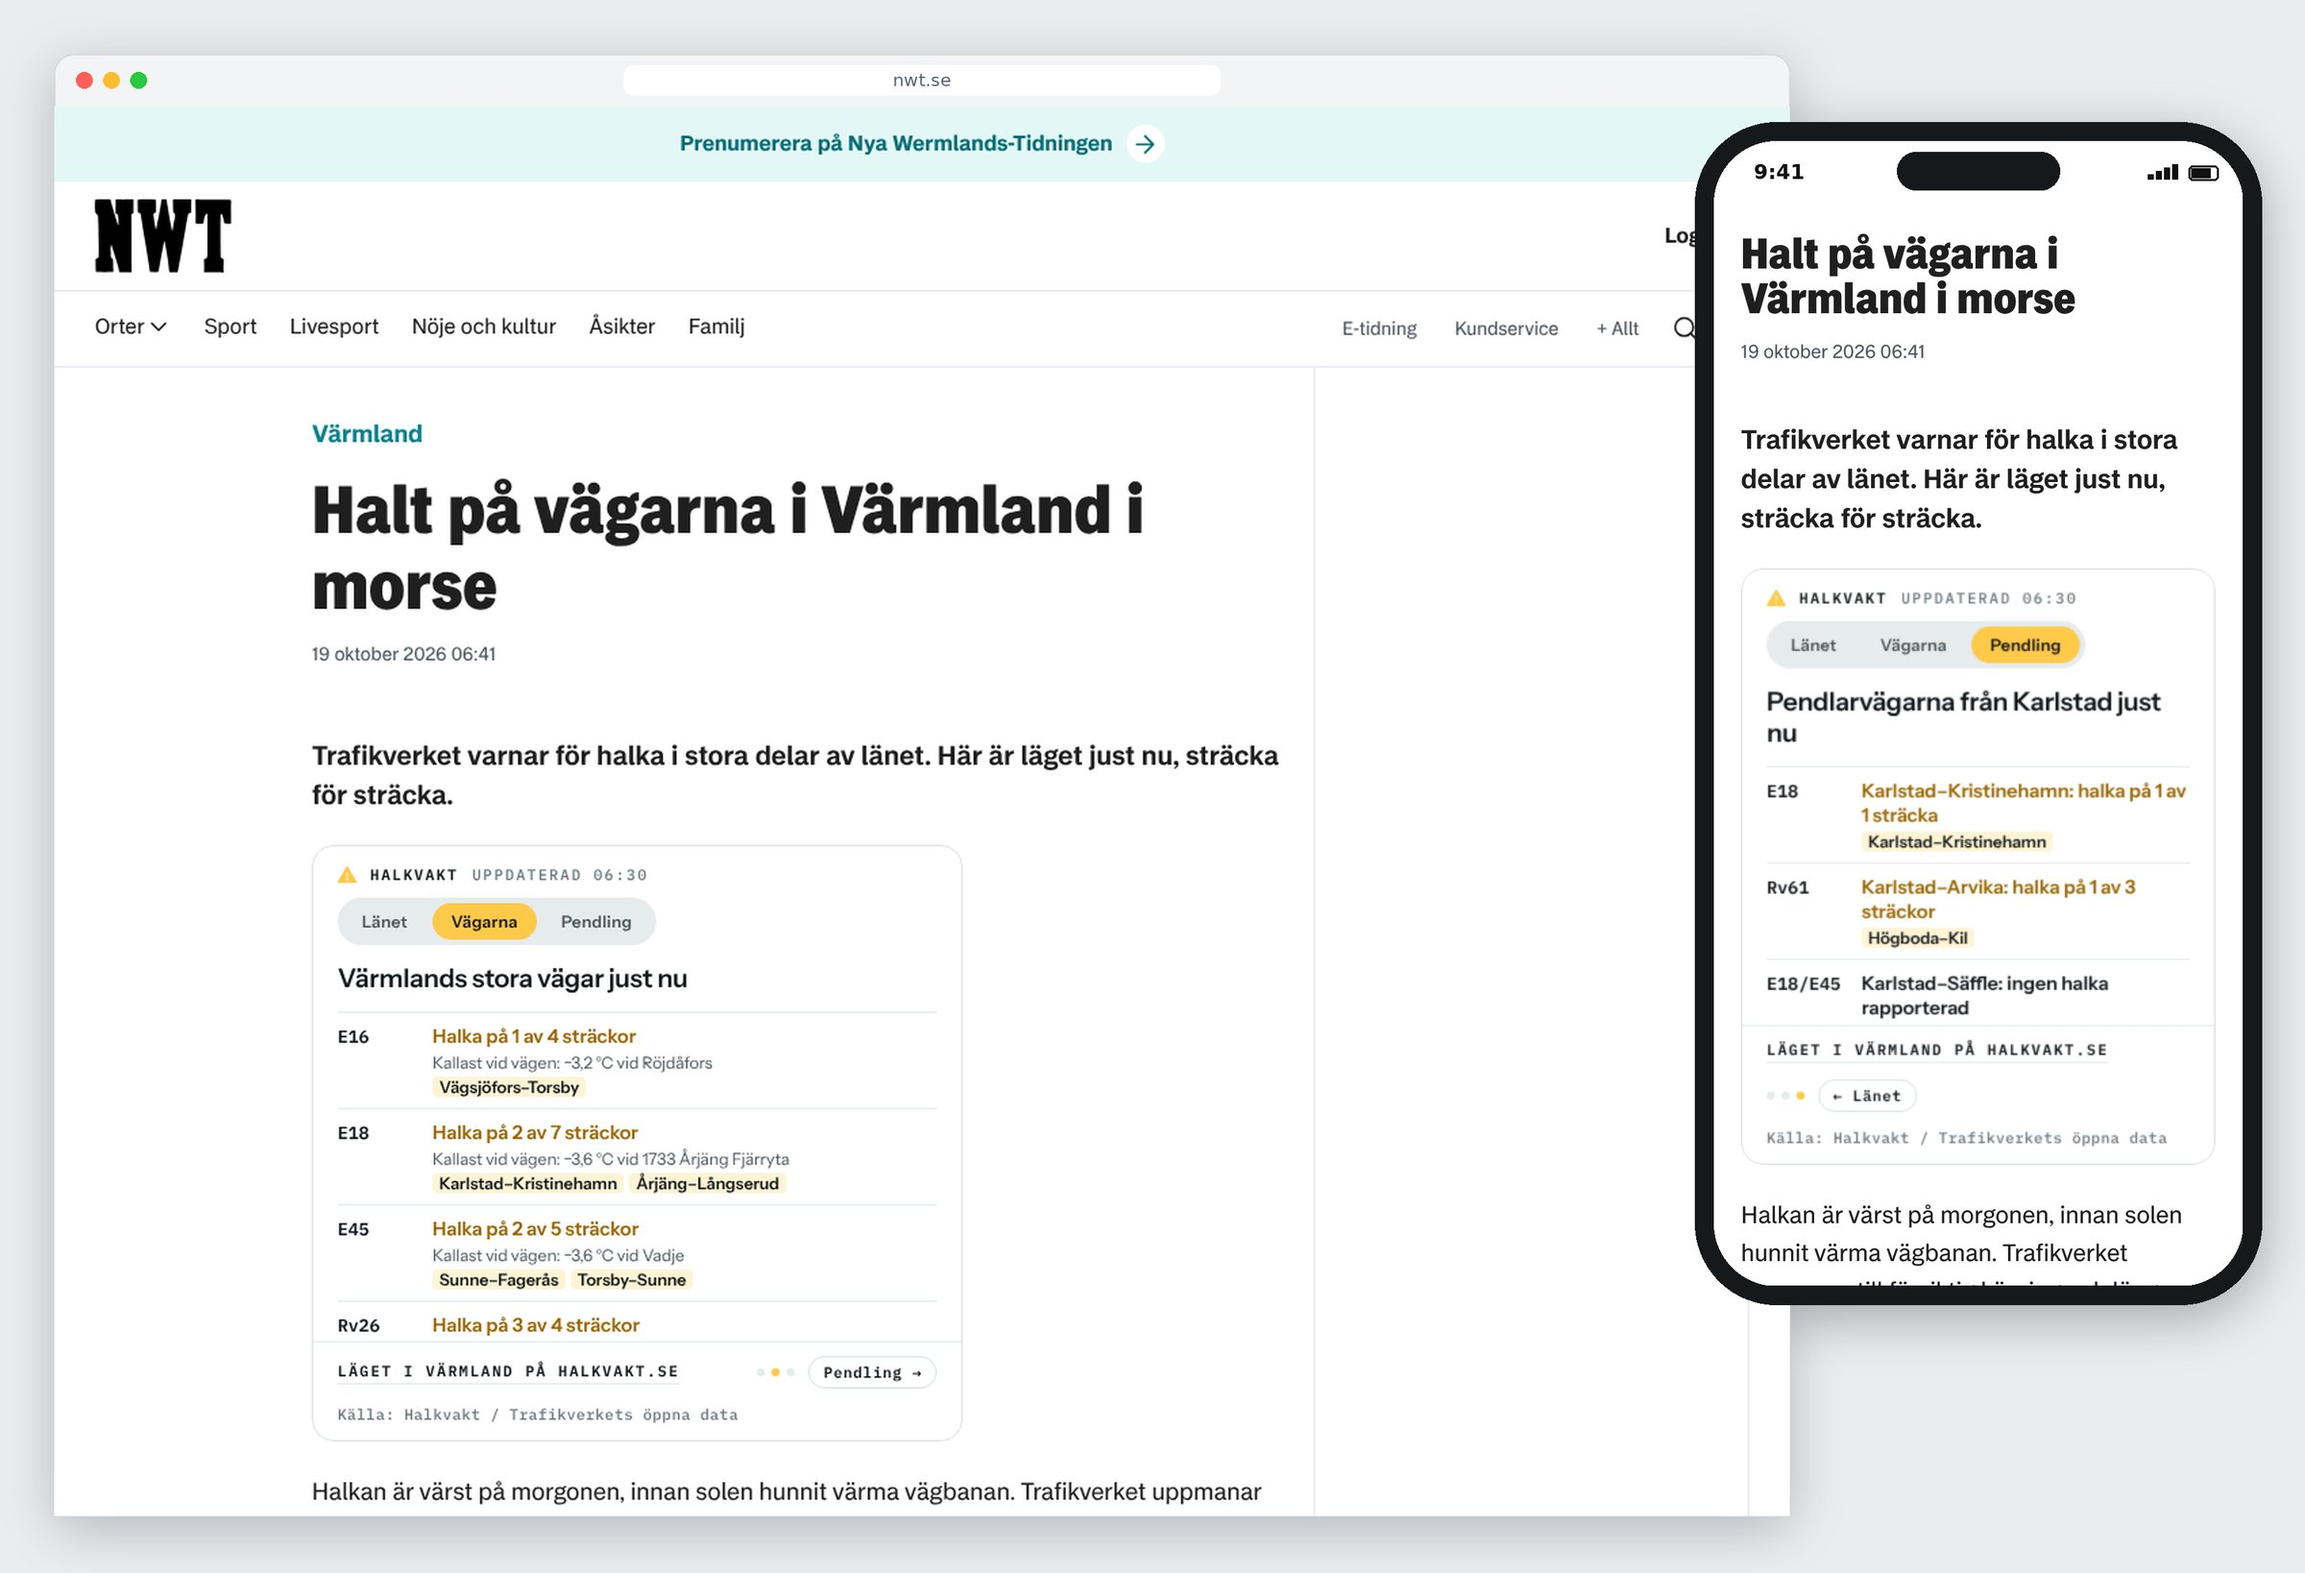
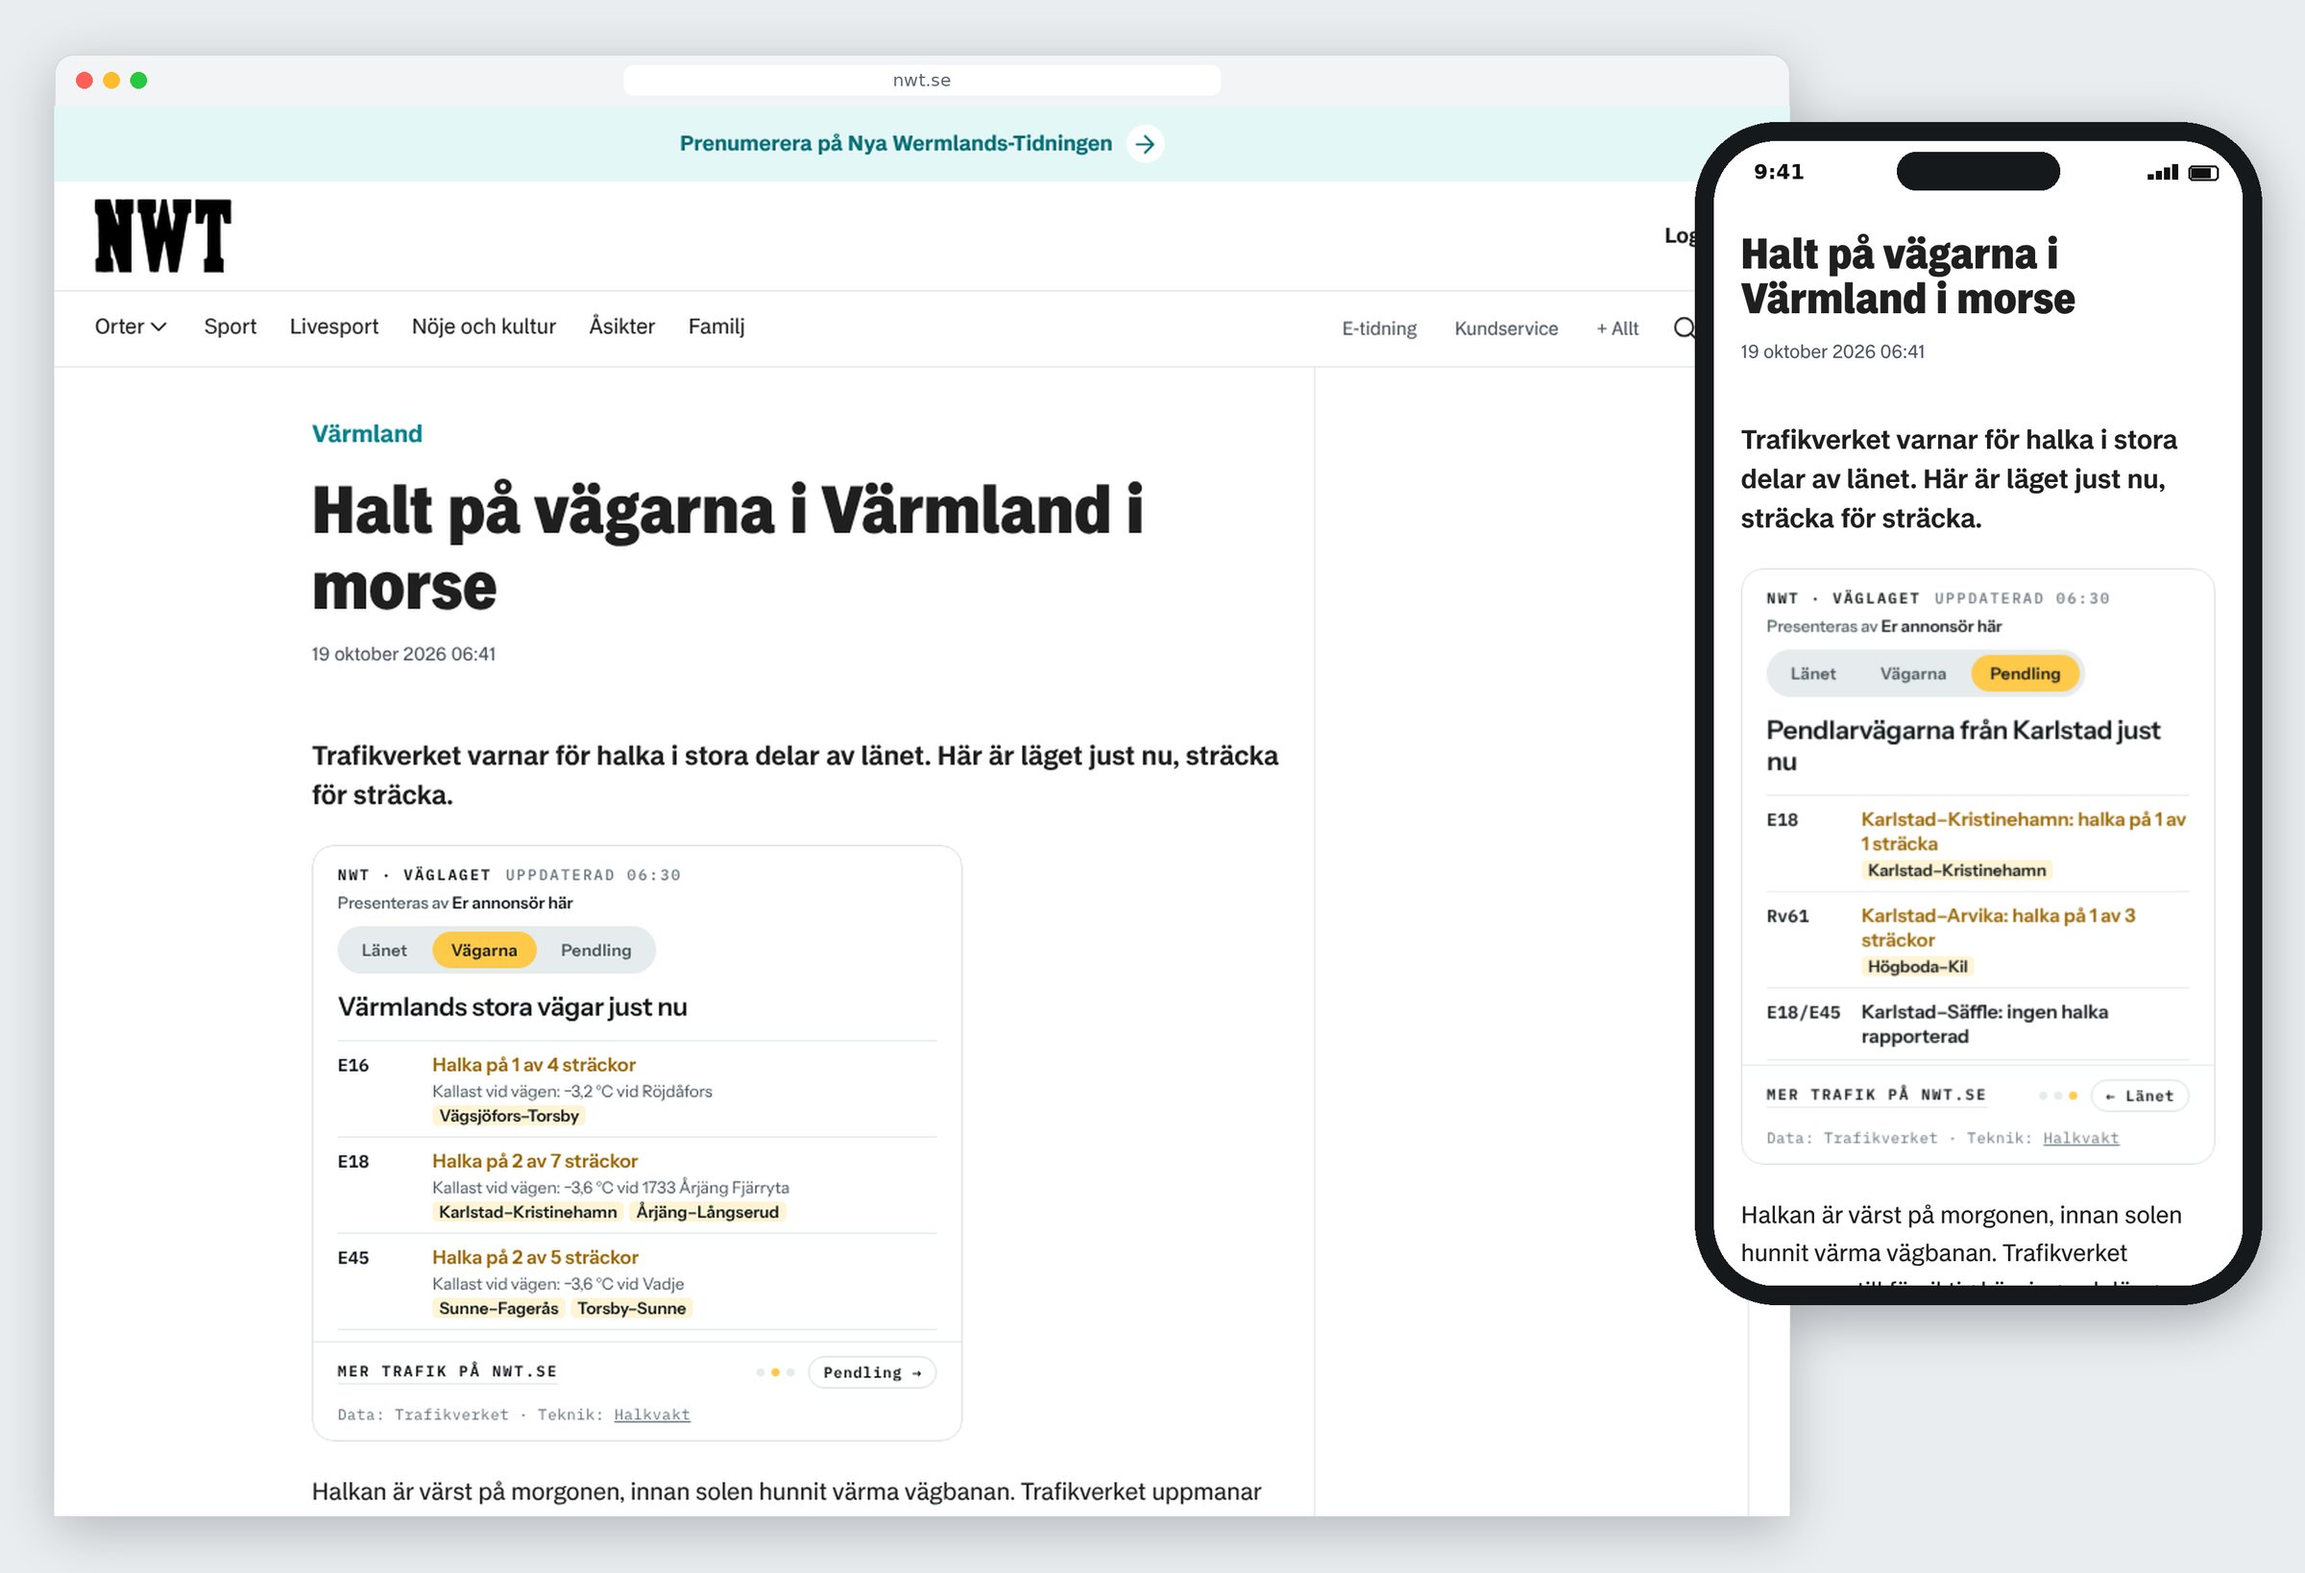
nwt.html: NWT:s egen ruta och sponsorraden, nytt montage
Claude-Session: https://claude.ai/code/session_01DUeD3neQ2tKzSGjyJJCnGk

diff --git a/nwt.html b/nwt.html
@@ -100,7 +100,7 @@ footer{padding-block:40px 64px;border-top:1px solid var(--kant);color:var(--damp
       <p class="lead" style="font-size:17px">Rutan bredvid är den riktiga, med dagens siffror. Svep i sidled eller tryck på flikarna.</p>
     </div>
     <div class="live">
-      <iframe src="ruta.html?v=2&amp;lan=varmland&amp;tema=ljus" title="Väglaget i Värmland just nu" loading="eager"></iframe>
+      <iframe src="ruta.html?v=3&amp;lan=varmland&amp;tema=ljus&amp;namn=NWT&amp;lank=https://www.nwt.se/&amp;lanktext=Mer%20trafik%20p%C3%A5%20nwt.se" title="Väglaget i Värmland just nu" loading="eager"></iframe>
       <p class="not">Live från Trafikverkets öppna data</p>
     </div>
   </div>
@@ -142,7 +142,7 @@ footer{padding-block:40px 64px;border-top:1px solid var(--kant);color:var(--damp
       <h2>Så kan det se ut en morgon med halka</h2>
     </div>
     <figure class="montage">
-      <a href="press/nwt-artikel.jpg?v=2" target="_blank" rel="noopener"><img src="press/nwt-artikel.jpg?v=2" width="2400" height="1638" alt="Bildmontage: en artikel på nwt.se, Halt på vägarna i Värmland i morse, med Halkvakts ruta efter ingressen. På datorn visar rutan fliken Vägarna, på mobilen fliken Pendling." loading="lazy"></a>
+      <a href="press/nwt-artikel.jpg?v=3" target="_blank" rel="noopener"><img src="press/nwt-artikel.jpg?v=3" width="2400" height="1638" alt="Bildmontage: en artikel på nwt.se, Halt på vägarna i Värmland i morse, med Halkvakts ruta efter ingressen. På datorn visar rutan fliken Vägarna, på mobilen fliken Pendling." loading="lazy"></a>
     </figure>
     <p class="not">Bildmontage med exempelsiffror: så kan rutan se ut i en artikel hos er, på dator och mobil. Tryck på bilden för full storlek. Rutan överst på sidan är live.</p>
   </div>
@@ -163,7 +163,7 @@ footer{padding-block:40px 64px;border-top:1px solid var(--kant);color:var(--damp
     <div class="stack" style="gap:16px">
       <div class="kod">
         <button type="button" id="kopiera">Kopiera</button>
-<pre id="koden"><span class="k">&lt;iframe</span> src="https://halkvakt.se/ruta.html?lan=varmland&amp;tema=ljus"
+<pre id="koden"><span class="k">&lt;iframe</span> src="https://halkvakt.se/ruta.html?lan=varmland&amp;tema=ljus&amp;namn=NWT&amp;lank=https://www.nwt.se/"
   width="100%" height="440"
   style="border:0;max-width:480px"
   title="Väglaget i Värmland just nu" loading="lazy"<span class="k">&gt;&lt;/iframe&gt;</span></pre>
@@ -175,9 +175,30 @@ footer{padding-block:40px 64px;border-top:1px solid var(--kant);color:var(--damp
             <tr><td><code>&amp;flik=vagar</code></td><td>Öppnar på de stora vägarna</td></tr>
             <tr><td><code>&amp;flik=pendling</code></td><td>Öppnar på pendlarvägarna</td></tr>
             <tr><td><code>&amp;tema=auto</code></td><td>Följer läsarens ljusa eller mörka läge</td></tr>
+            <tr><td><code>&amp;namn=NWT</code></td><td>Rutan heter NWT · Väglaget, utan Halkvakts märke</td></tr>
+            <tr><td><code>&amp;lank=…</code></td><td>Länken i foten går till er egen sida</td></tr>
+            <tr><td><code>&amp;sponsor=…</code></td><td>Raden "Presenteras av" överst, för er annonsör</td></tr>
           </tbody>
         </table>
       </div>
+    </div>
+  </div>
+</section>
+
+<section>
+  <div class="wrap tva" style="align-items:start">
+    <div class="stack">
+      <p class="etikett">Er ruta</p>
+      <h2>NWT:s väglagsruta, och en plats ni kan sälja</h2>
+      <ul class="lista">
+        <li><span><b>Ert namn överst:</b> rutan heter NWT · Väglaget. Halkvakt står bara som en rad i foten: <i>Data: Trafikverket · Teknik: Halkvakt</i>.</span></li>
+        <li><span><b>Läsarna stannar hos er:</b> länken i rutan går till er egen trafiksida. Det enda som pekar mot oss öppnas i en ny flik.</span></li>
+        <li><span><b>En sponsorrad</b> överst, till exempel <i>Presenteras av</i> en däckfirma eller bilhandlare i Värmland. Annonsplatsen är er, och intäkten också. Vi tar inget betalt.</span></li>
+      </ul>
+    </div>
+    <div class="live">
+      <iframe src="ruta.html?v=3&amp;lan=varmland&amp;tema=ljus&amp;namn=NWT&amp;lank=https://www.nwt.se/&amp;lanktext=Mer%20trafik%20p%C3%A5%20nwt.se&amp;sponsor=Er%20annons%C3%B6r%20h%C3%A4r" title="NWT:s väglagsruta med sponsorrad" loading="lazy"></iframe>
+      <p class="not">Live, med sponsorraden ifylld som exempel.</p>
     </div>
   </div>
 </section>
